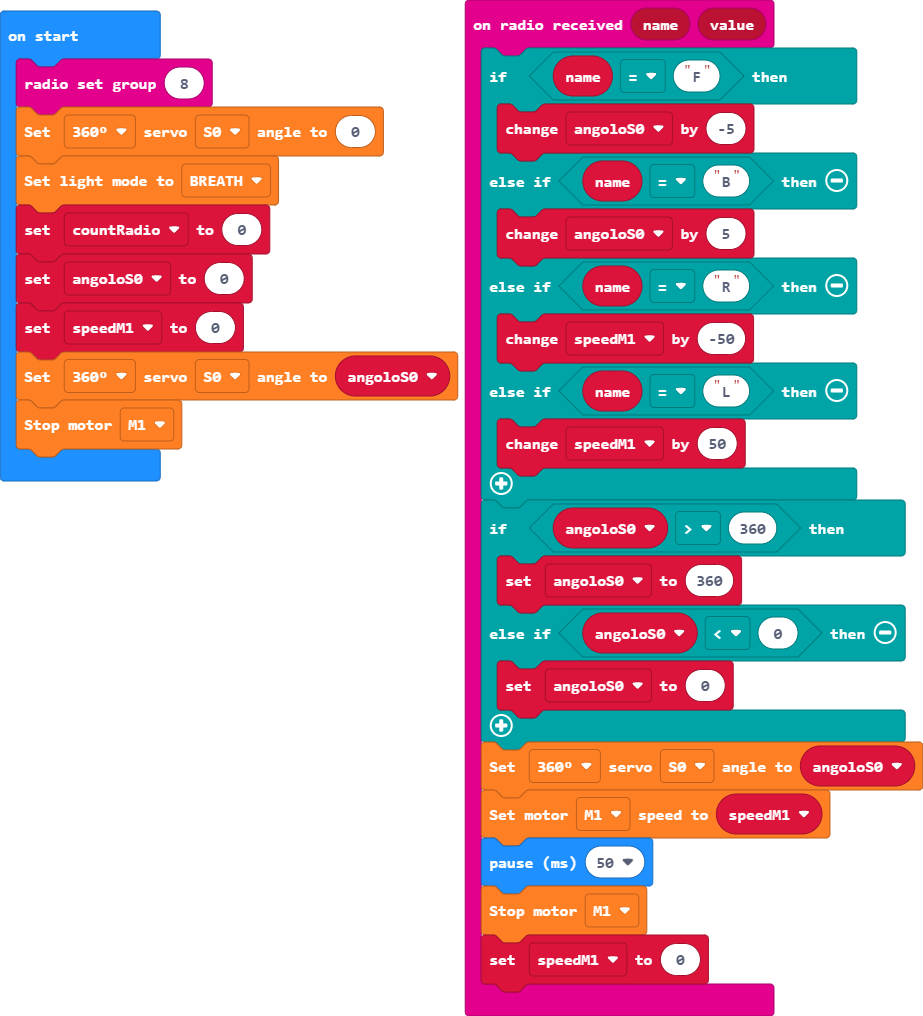
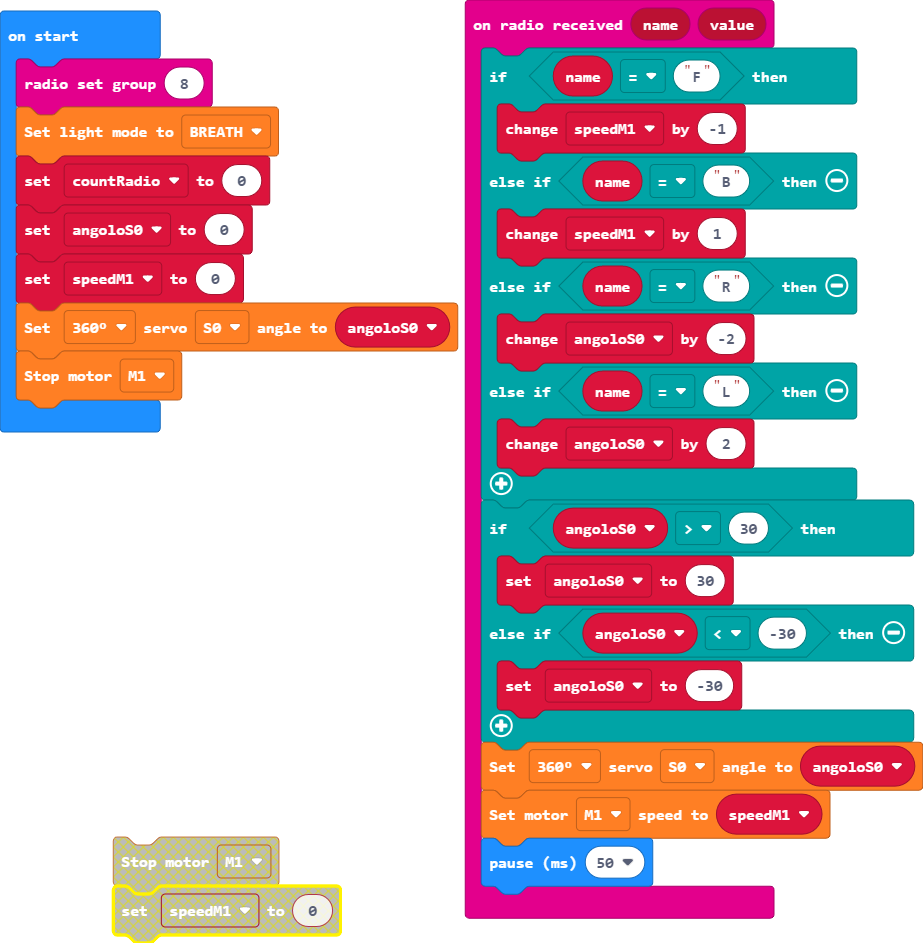
Update pxt.json, main.blocks, main.ts

diff --git a/main.ts b/main.ts
@@ -1,28 +1,25 @@
 radio.onReceivedValue(function (name, value) {
     if (name == "F") {
-        angoloS0 += -5
+        speedM1 += -1
     } else if (name == "B") {
-        angoloS0 += 5
+        speedM1 += 1
     } else if (name == "R") {
-        speedM1 += -50
+        angoloS0 += -2
     } else if (name == "L") {
-        speedM1 += 50
+        angoloS0 += 2
     }
-    if (angoloS0 > 360) {
-        angoloS0 = 360
-    } else if (angoloS0 < 0) {
-        angoloS0 = 0
+    if (angoloS0 > 30) {
+        angoloS0 = 30
+    } else if (angoloS0 < -30) {
+        angoloS0 = -30
     }
     wuKong.setServoAngle(wuKong.ServoTypeList._360, wuKong.ServoList.S0, angoloS0)
     wuKong.setMotorSpeed(wuKong.MotorList.M1, speedM1)
     basic.pause(50)
-    wuKong.stopMotor(wuKong.MotorList.M1)
-    speedM1 = 0
 })
 let speedM1 = 0
 let angoloS0 = 0
 radio.setGroup(8)
-wuKong.setServoAngle(wuKong.ServoTypeList._360, wuKong.ServoList.S0, 0)
 wuKong.setLightMode(wuKong.LightMode.BREATH)
 let countRadio = 0
 angoloS0 = 0
